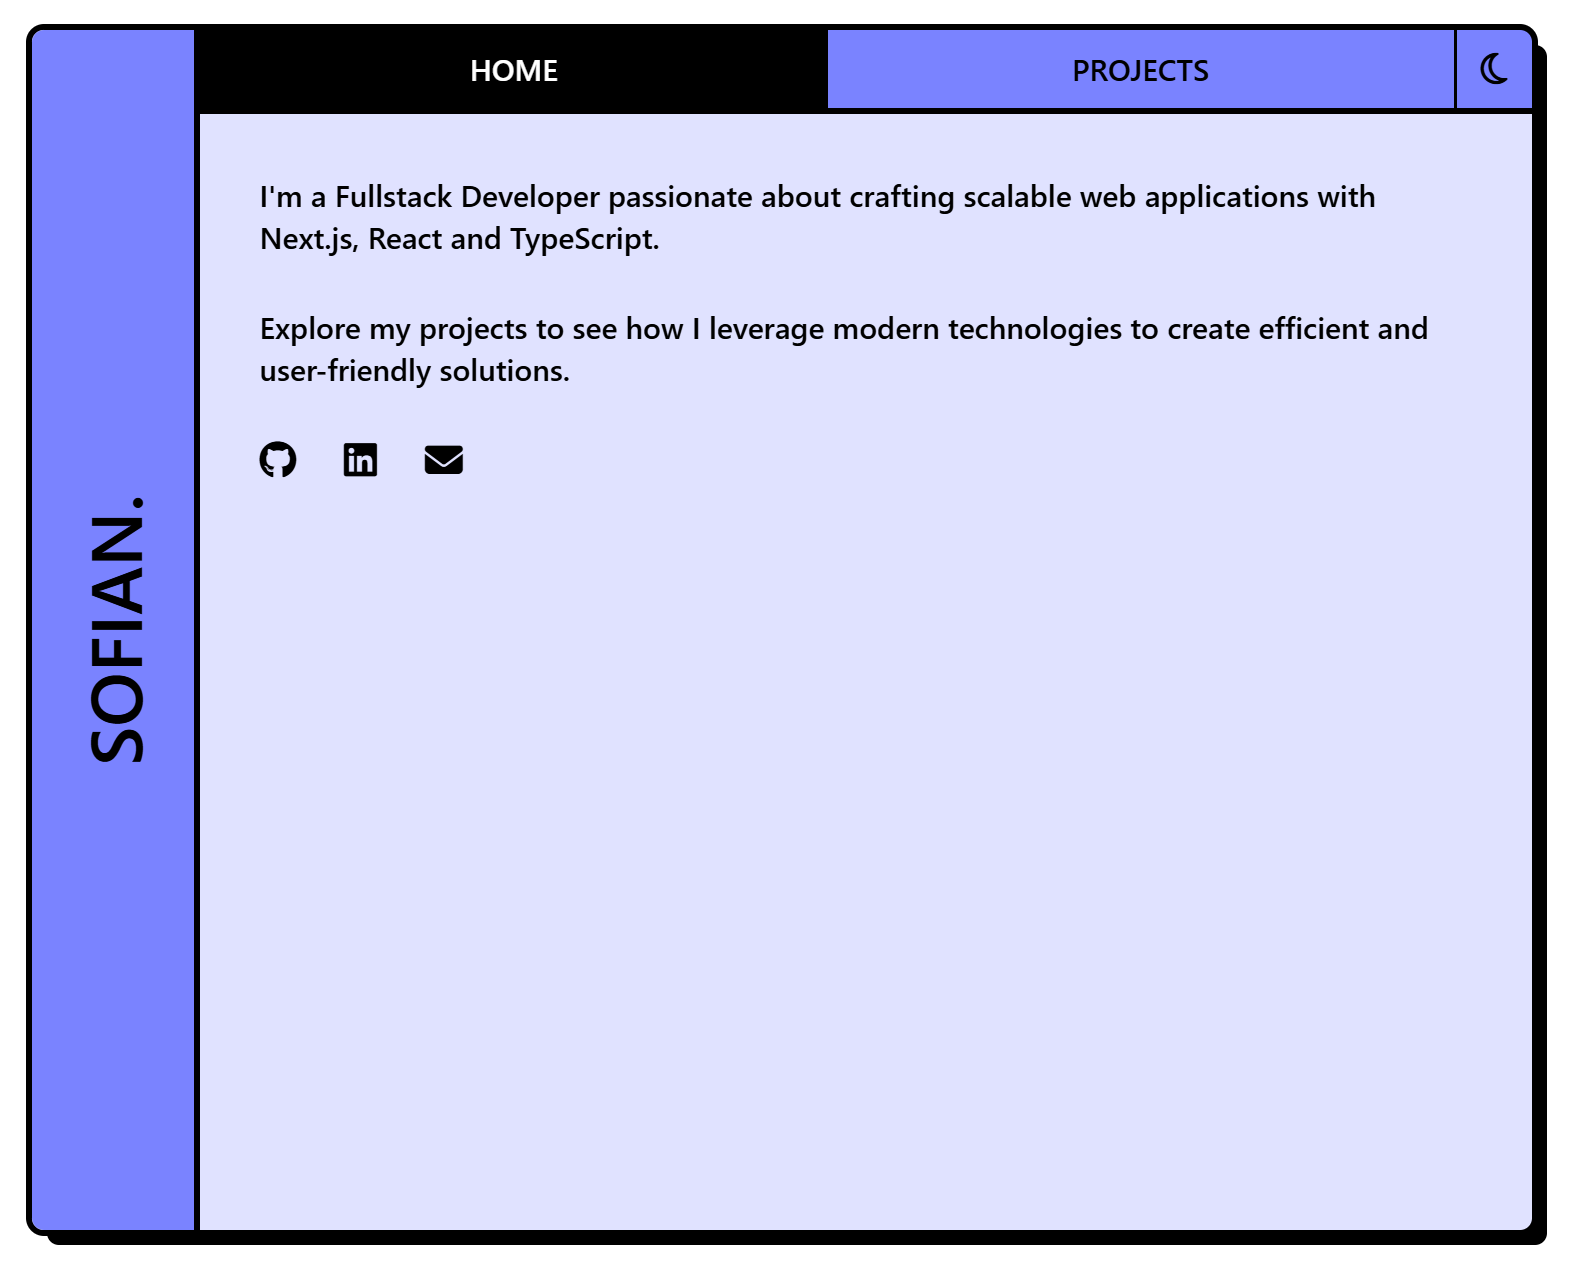
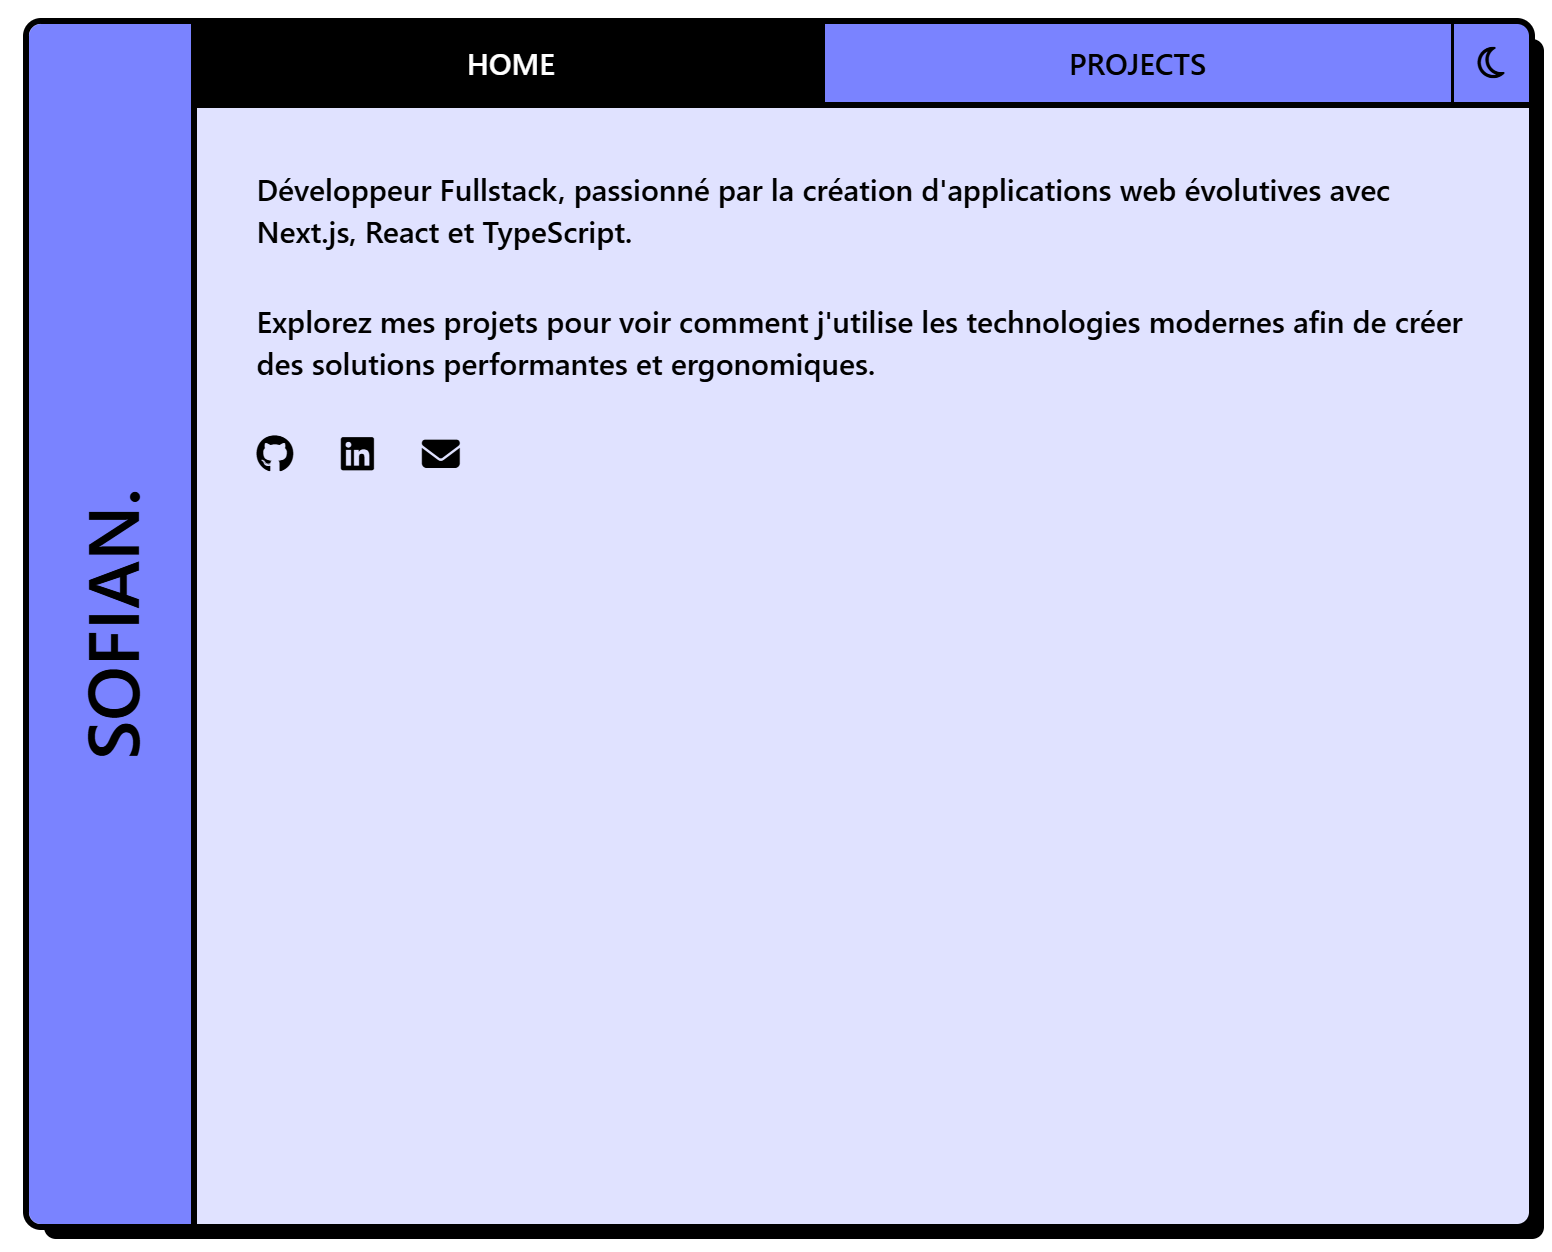
updating portfolio preview

diff --git a/src/components/projects.tsx b/src/components/projects.tsx
@@ -14,16 +14,16 @@ export default function Projects() {
 						<p className="text-3xl font-bold mt-6">{name}</p>
 						<p className="text-lg font-semibold mt-5">{description}</p>
 						<div className="flex flex-row gap-4 mt-5 mb-1 w-full">
-							<button className="bg-primary dark:text-black px-4 py-2 rounded-lg w-full font-medium uppercase border-2 border-black shadow-little">
-								<Link href={link} target="_blank">
-									Visit
-								</Link>
-							</button>
-							<button className="bg-primary dark:text-black px-4 py-2 rounded-lg w-full font-medium uppercase border-2 border-black shadow-little">
-								<Link href={github} target="_blank">
-									GitHub
-								</Link>
-							</button>
+							<Link href={link} target="_blank" className="w-full">
+								<button className="bg-primary dark:text-black px-4 py-2 rounded-lg w-full font-medium uppercase border-2 border-black shadow-little">
+									Visiter
+								</button>
+							</Link>
+							<Link href={github} target="_blank" className="w-full">
+								<button className="bg-primary dark:text-black px-4 py-2 rounded-lg w-full font-medium uppercase border-2 border-black shadow-little">
+										GitHub
+								</button>
+							</Link>
 						</div>
 					</div>
 				</div>
@@ -52,8 +52,8 @@ export default function Projects() {
 					"TicTacToe",
 					"Jeu en multijoueur avec websockets",
 					"/calipso-dashboard.png",
-					"https://tictactoe.me",
-					"https://github.com/ElSofian/calipso-dashboard"
+					"https://tictactoe.sofianelaloui.me",
+					"https://github.com/ElSofian/tictactoe"
 				)
 			}
 

diff --git a/src/components/home.tsx b/src/components/home.tsx
@@ -6,8 +6,8 @@ export default function Home() {
 		<div className="flex flex-col items-center overflow-y-auto dark:text-gray-100">
 			<div className="p-10">
 				<div className="flex flex-col gap-8 font-medium text-xl w600:text-lg w600:p-[30px]">
-					<p>I&apos;m a Fullstack Developer passionate about crafting scalable web applications with Next.js, React and TypeScript.</p>
-					<p>Explore my projects to see how I leverage modern technologies to create efficient and user-friendly solutions.</p>
+					<p>Développeur Fullstack, passionné par la création d&apos;applications web évolutives avec Next.js, React et TypeScript.</p>
+					<p>Explorez mes projets pour voir comment j&apos;utilise les technologies modernes afin de créer des solutions performantes et ergonomiques.</p>
 					<div className="flex items-center gap-8">
 						<Link href="https://github.com/ElSofian" target="_blank">
 							<i className="fa-brands fa-github fa-lg" />
